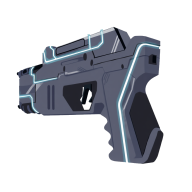
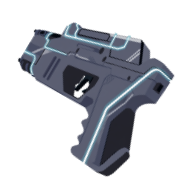
guns on each hand + depth, angling sprite up

diff --git a/index.html b/index.html
@@ -315,13 +315,19 @@
         remixBossSprite.src = BASE_URL + 'assets/remixboss.png';
         let remixBoySprite = new Image();
         remixBoySprite.src = BASE_URL + 'assets/remixboy.png';
+        let gunHeldSprite = new Image();
+        gunHeldSprite.src = BASE_URL + 'assets/gun_held.png';
+        let gunPickupSprite = new Image();
+        gunPickupSprite.src = BASE_URL + 'assets/gun_pickup.png';
 
         let spritesLoaded = {
             remixetteBack: false,
             remixetteFront: false,
             remixBot: false,
             remixBoss: false,
-            remixBoy: false
+            remixBoy: false,
+            gunHeld: false,
+            gunPickup: false
         };
 
         remixetteBackSprite.onload = () => spritesLoaded.remixetteBack = true;
@@ -338,6 +344,8 @@
             spritesLoaded.remixBoy = true;
             drawIntroScene();
         };
+        gunHeldSprite.onload = () => spritesLoaded.gunHeld = true;
+        gunPickupSprite.onload = () => spritesLoaded.gunPickup = true;
 
         function drawIntroScene() {
             const introCanvas = document.getElementById('introCanvas');
@@ -701,25 +709,38 @@
         function drawGunPickup(gunPickup) {
             const pos = project3D(gunPickup.x, 0, gunPickup.z);
             if (pos.scale > 0.05 && gunPickup.z > 0 && gunPickup.z < 2000) {
-                const size = 50 * pos.scale;
                 const tunnelFloorY = pos.y;
                 const screenY = Math.min(gunPickup.dropY, tunnelFloorY);
+
+                // Use sprite dimensions: 256x192
+                const baseWidth = 256;
+                const baseHeight = 192;
+                const scale = pos.scale * 0.5; // Adjust this multiplier to get the right size
+                const spriteWidth = baseWidth * scale;
+                const spriteHeight = baseHeight * scale;
 
                 ctx.save();
                 ctx.translate(pos.x, screenY);
                 ctx.rotate(gunPickup.rotation);
 
-                ctx.fillStyle = '#444444';
-                ctx.fillRect(-size * 1.2, -size * 0.3, size * 2.4, size * 0.6);
-
-                ctx.fillStyle = '#666666';
-                ctx.fillRect(size * 0.8, -size * 0.2, size * 0.8, size * 0.4);
-
-                ctx.fillStyle = '#333333';
-                ctx.fillRect(-size * 0.4, -size * 0.3, size * 0.8, size * 1.2);
-
-                ctx.fillStyle = '#888888';
-                ctx.fillRect(-size * 1.1, -size * 0.2, size * 2.2, size * 0.2);
+                if (spritesLoaded.gunPickup) {
+                    ctx.drawImage(
+                        gunPickupSprite,
+                        -spriteWidth / 2, -spriteHeight / 2,
+                        spriteWidth, spriteHeight
+                    );
+                } else {
+                    // Fallback to old programmatic rendering if sprite not loaded
+                    const size = 50 * pos.scale;
+                    ctx.fillStyle = '#444444';
+                    ctx.fillRect(-size * 1.2, -size * 0.3, size * 2.4, size * 0.6);
+                    ctx.fillStyle = '#666666';
+                    ctx.fillRect(size * 0.8, -size * 0.2, size * 0.8, size * 0.4);
+                    ctx.fillStyle = '#333333';
+                    ctx.fillRect(-size * 0.4, -size * 0.3, size * 0.8, size * 1.2);
+                    ctx.fillStyle = '#888888';
+                    ctx.fillRect(-size * 1.1, -size * 0.2, size * 2.2, size * 0.2);
+                }
 
                 ctx.restore();
             }
@@ -1176,6 +1197,75 @@
 
             const size = 96;
 
+            // Helper function to draw a single gun
+            function drawGun(gunIndex, gunX, gunY) {
+                if (spritesLoaded.gunHeld && gunHeldSprite.complete) {
+                    const gunSpriteSize = 80;
+
+                    ctx.save();
+                    ctx.translate(gunX, gunY);
+
+                    if (player.flipped) {
+                        ctx.scale(-1, 1);
+                    }
+
+                    ctx.drawImage(
+                        gunHeldSprite,
+                        -gunSpriteSize / 2, -gunSpriteSize / 2,
+                        gunSpriteSize, gunSpriteSize
+                    );
+
+                    ctx.restore();
+                } else {
+                    // Fallback - bright yellow for debugging
+                    ctx.fillStyle = '#ffff00';
+                    ctx.fillRect(gunX - 6, gunY - 30, 12, 60);
+                }
+            }
+
+            // Calculate gun positions first
+            let gunPositions = [];
+            for (let i = 0; i < player.guns; i++) {
+                let gunX;
+
+                if (i === 0) {
+                    // First gun: left hand position
+                    gunX = x - 45;
+                } else if (i === 1) {
+                    // Second gun: right hand position  
+                    gunX = x + 45;
+                } else {
+                    // Additional guns stack outward alternating left/right
+                    const extraGuns = i - 2;
+                    const stackSide = extraGuns % 2;
+                    const stackLevel = Math.floor(extraGuns / 2) + 1;
+
+                    if (stackSide === 0) {
+                        // Stack on left side
+                        gunX = x - 45 - (stackLevel * 30);
+                    } else {
+                        // Stack on right side
+                        gunX = x + 45 + (stackLevel * 30);
+                    }
+                }
+
+                gunPositions.push({
+                    index: i,
+                    x: gunX,
+                    y: y - 50,
+                    isOnLeftSide: gunX < x
+                });
+            }
+
+            // Phase 1: Draw guns that should be behind Remixette
+            for (let gun of gunPositions) {
+                const shouldBeInFront = player.flipped ? !gun.isOnLeftSide : gun.isOnLeftSide;
+                if (!shouldBeInFront) {
+                    drawGun(gun.index, gun.x, gun.y);
+                }
+            }
+
+            // Phase 2: Draw Remixette
             ctx.save();
             ctx.translate(x, y - size / 2);
 
@@ -1194,15 +1284,18 @@
 
             ctx.restore();
 
+            // Draw level text
             ctx.fillStyle = 'white';
             ctx.font = '20px "Press Start 2P", monospace';
             ctx.textAlign = 'center';
             ctx.fillText(`LVL ${player.level} ${getRank(player.level)}`, x, y - 130);
 
-            ctx.fillStyle = '#444';
-            for (let i = 0; i < player.guns; i++) {
-                const gunX = x + (i - (player.guns - 1) / 2) * 30;
-                ctx.fillRect(gunX - 4, y - 50, 8, 40);
+            // Phase 3: Draw guns that should be in front of Remixette
+            for (let gun of gunPositions) {
+                const shouldBeInFront = player.flipped ? !gun.isOnLeftSide : gun.isOnLeftSide;
+                if (shouldBeInFront) {
+                    drawGun(gun.index, gun.x, gun.y);
+                }
             }
         }
 
